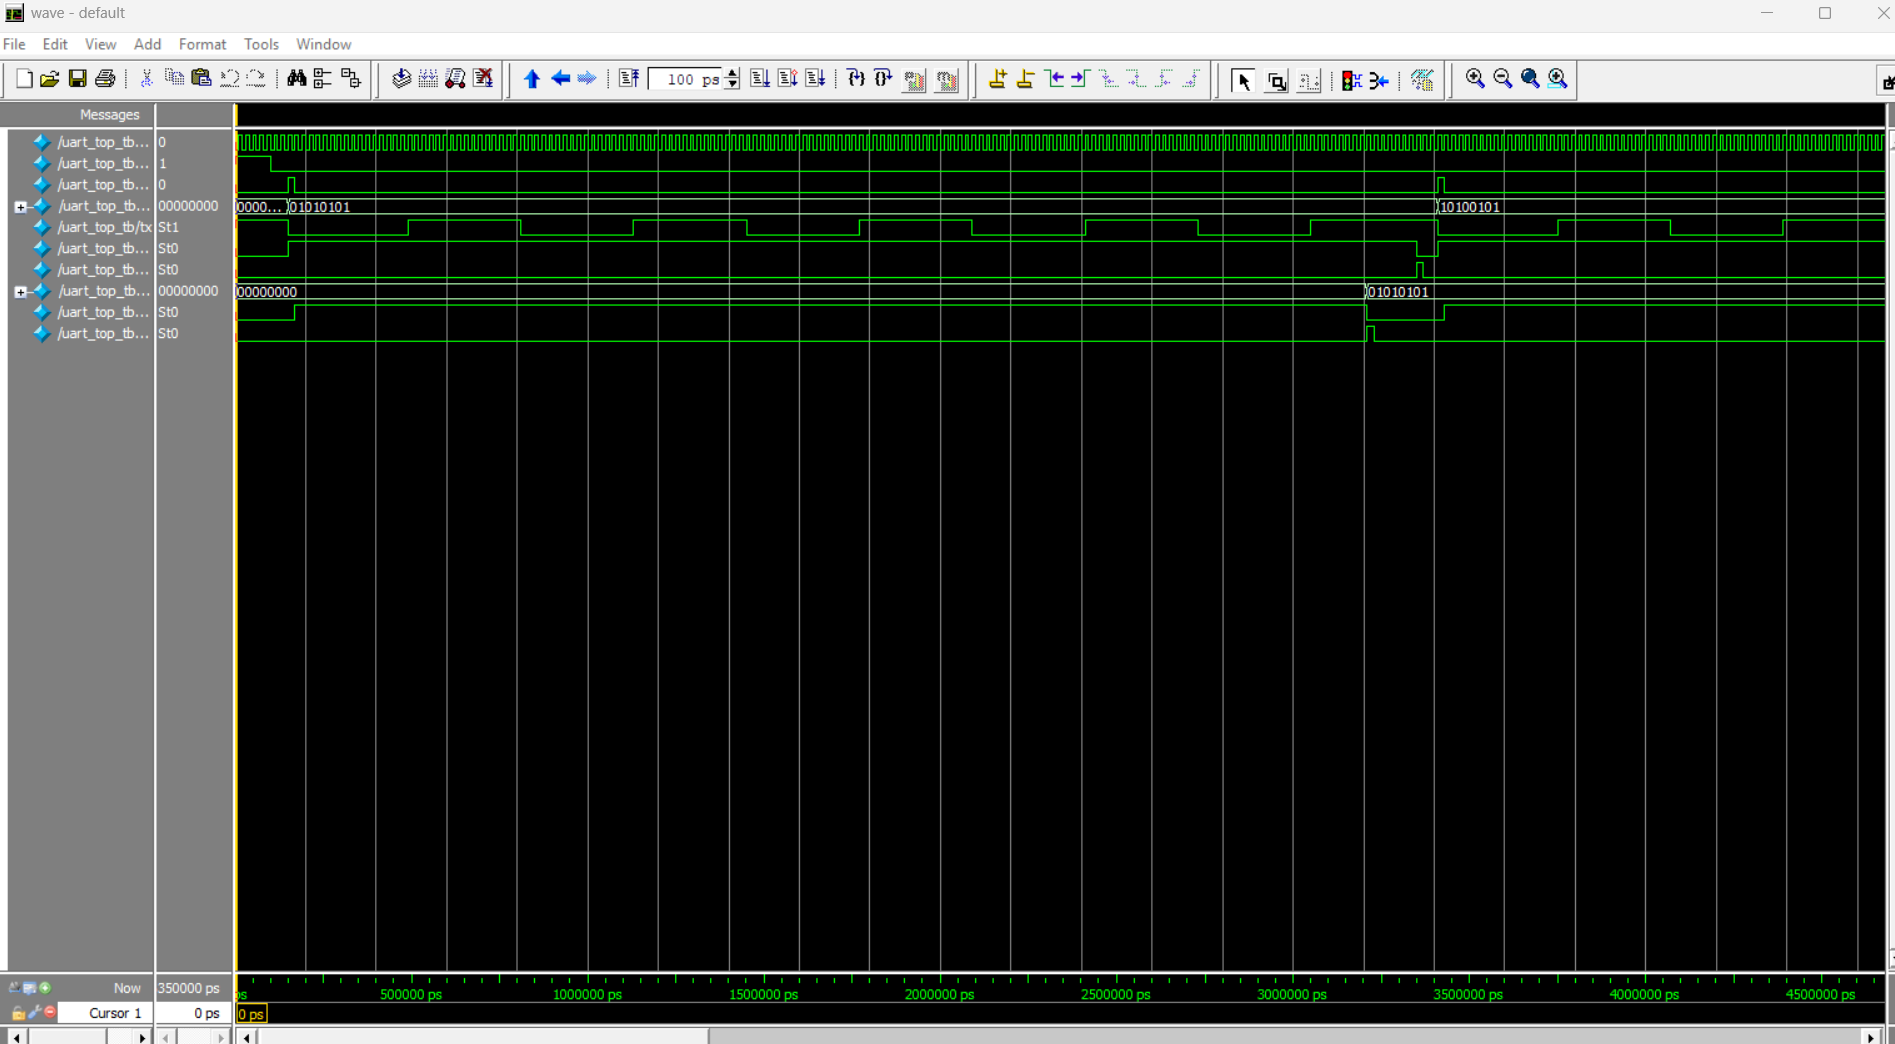
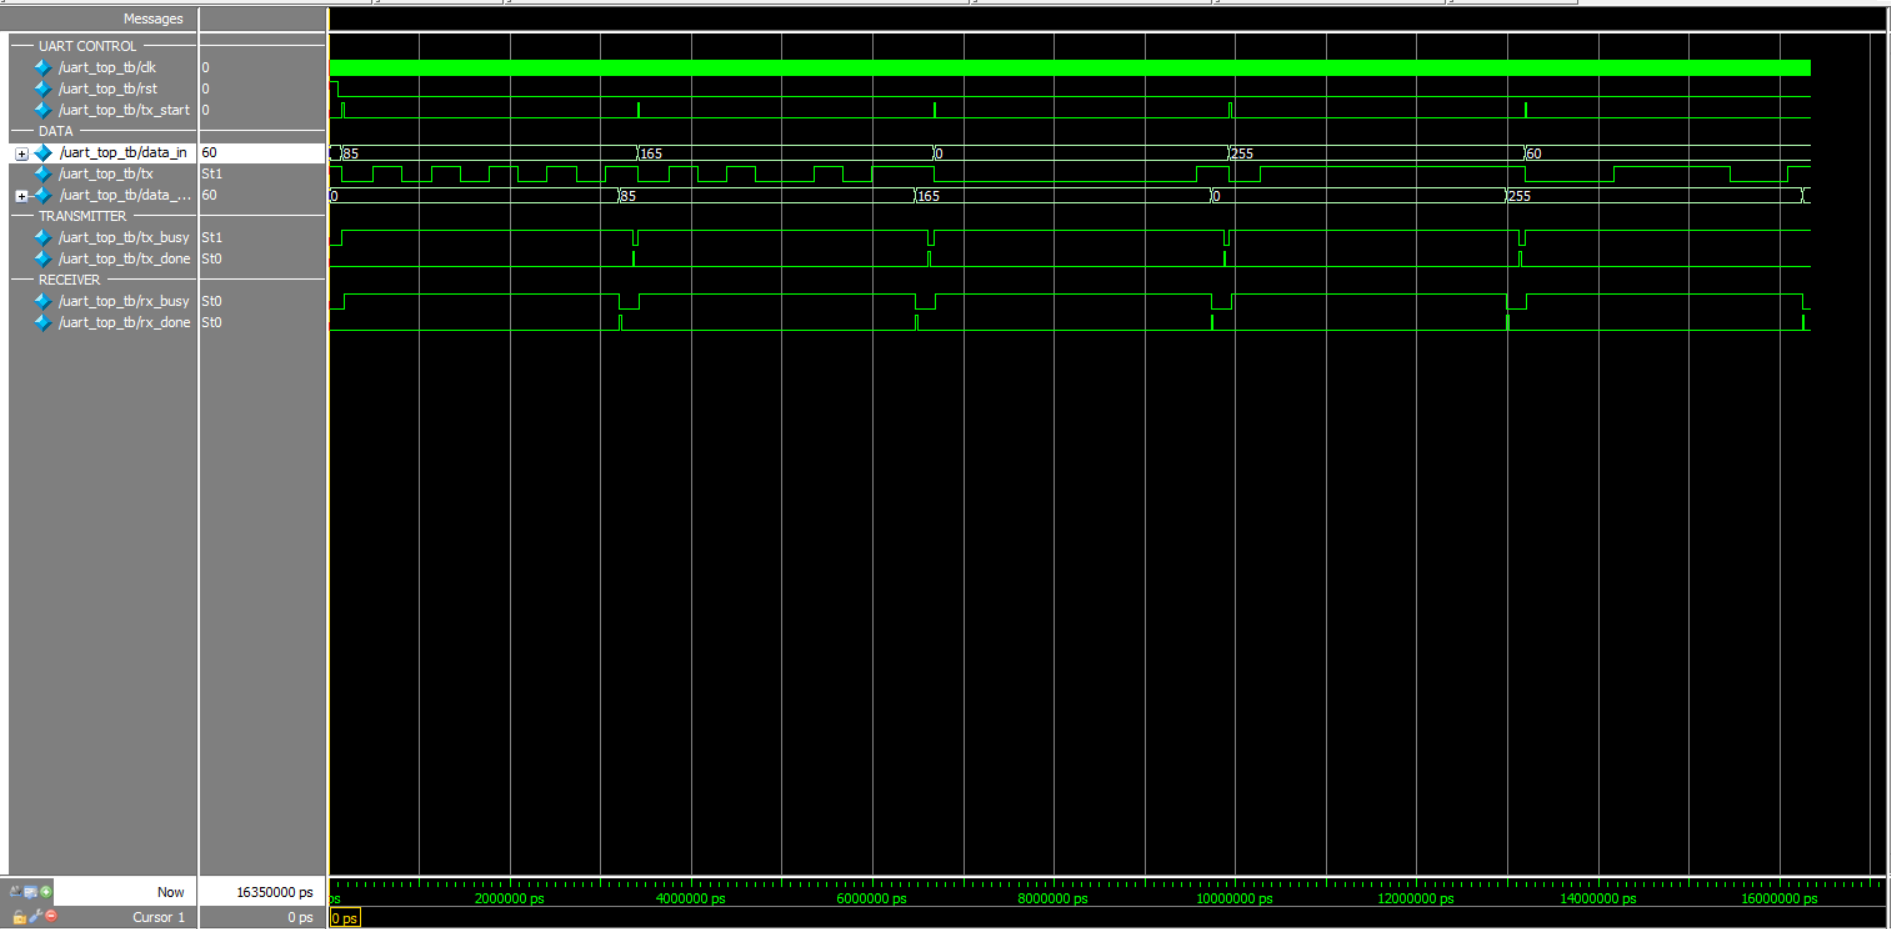
Update UART simulation and project documentation

Changed region(s): [[0.0, 0.0, 1.0, 1.0]]

diff --git a/README.md b/README.md
@@ -11,27 +11,39 @@ A UART (Universal Asynchronous Receiver/Transmitter) IP Core implemented in Veri
 - TX busy and done status signals
 - RX busy and done status signals
 - Loopback communication for verification
-- RTL simulation using ModelSim
+- Automated ModelSim simulation using a TCL .do script for compilation simulation, waveform setup, and test execution.
 - Multi-byte testbench verification
 
 ## Project Structure
 
-```text
-rtl/
-├── baud_generator.v
-├── uart_tx.v
-├── uart_rx.v
-├── uart_top.v
-├── uart_tb.v
-└── uart_top_tb.v
+UART-Transmitter-Receiver-IP-Core/
+│
+├── rtl/
+│   ├── baud_generator.v
+│   ├── uart_tx.v
+│   ├── uart_rx.v
+│   ├── uart_top.v
+│   ├── uart_tb.v
+│   └── uart_top_tb.v
+│
+├── sim/
+│   └── uart.do
+│
+├── screenshots/
+│   ├── 01_modelsim_tests.png
+│   ├── 02_uart_top_waveform.png
+│   └── 03_modelsim_waveform_detail.png
+│
+├── docs/
+│   └── .gitkeep
+│
+├── .gitignore
+└── README.md
 
-docs/
-README.md
-.gitignore
 
 ## Block Diagram
 
-```text
+
                  +------------------+
                  |  Baud Generator  |
                  +--------+---------+
@@ -85,7 +97,7 @@ The complete UART design was verified using ModelSim with a multi-byte testbench
 
 ### ModelSim Result
 
-```text
+
 TOP TEST 1 PASSED: TX = 55, RX = 55
 TOP TEST 2 PASSED: TX = a5, RX = a5
 TOP TEST 3 PASSED: TX = 00, RX = 00
@@ -107,7 +119,7 @@ UART TOP MODULE TEST COMPLETE
 
 The transmitter output is connected directly to the receiver input in a loopback configuration.
 
-```text
+
 data_in
    |
    v
@@ -120,7 +132,7 @@ UART Receiver
    v
 data_out
 
-```
+
 
 The transmitted data is compared with the received data for each test case.
 
